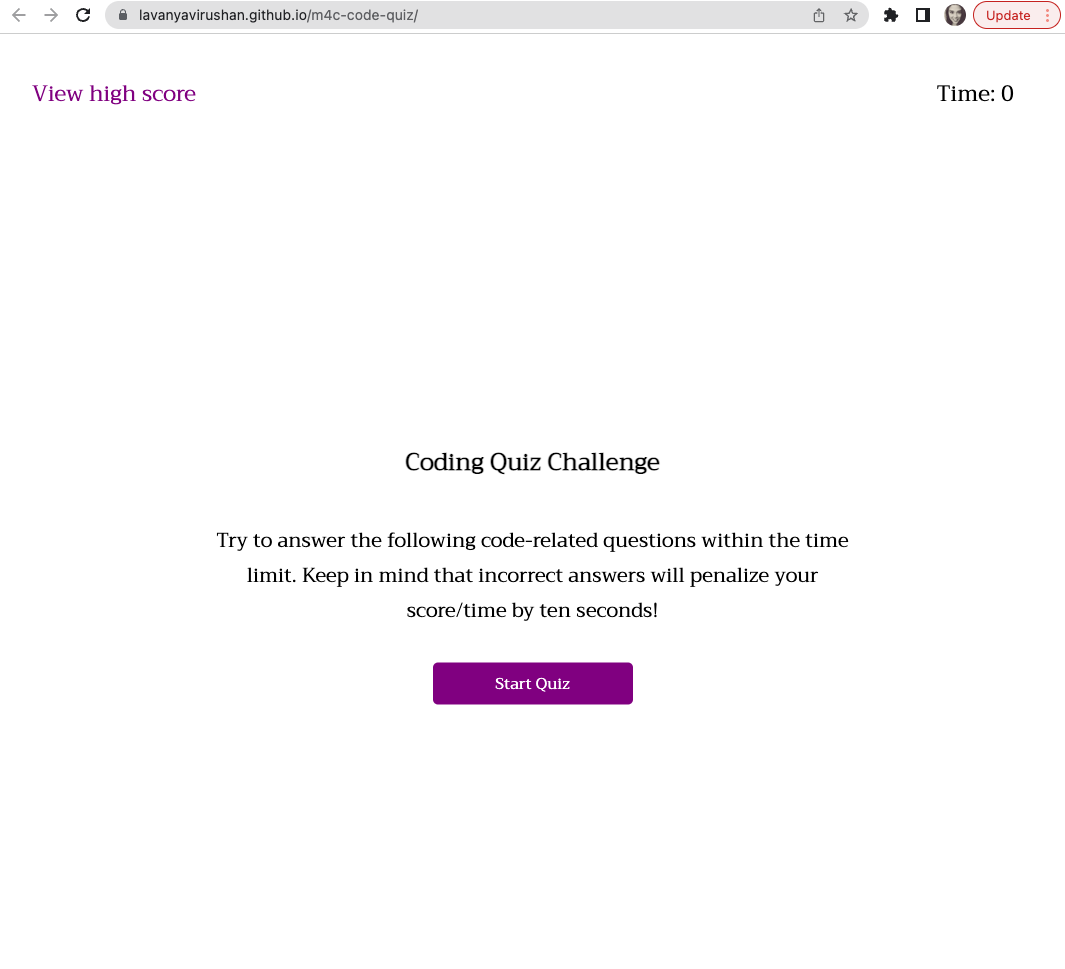
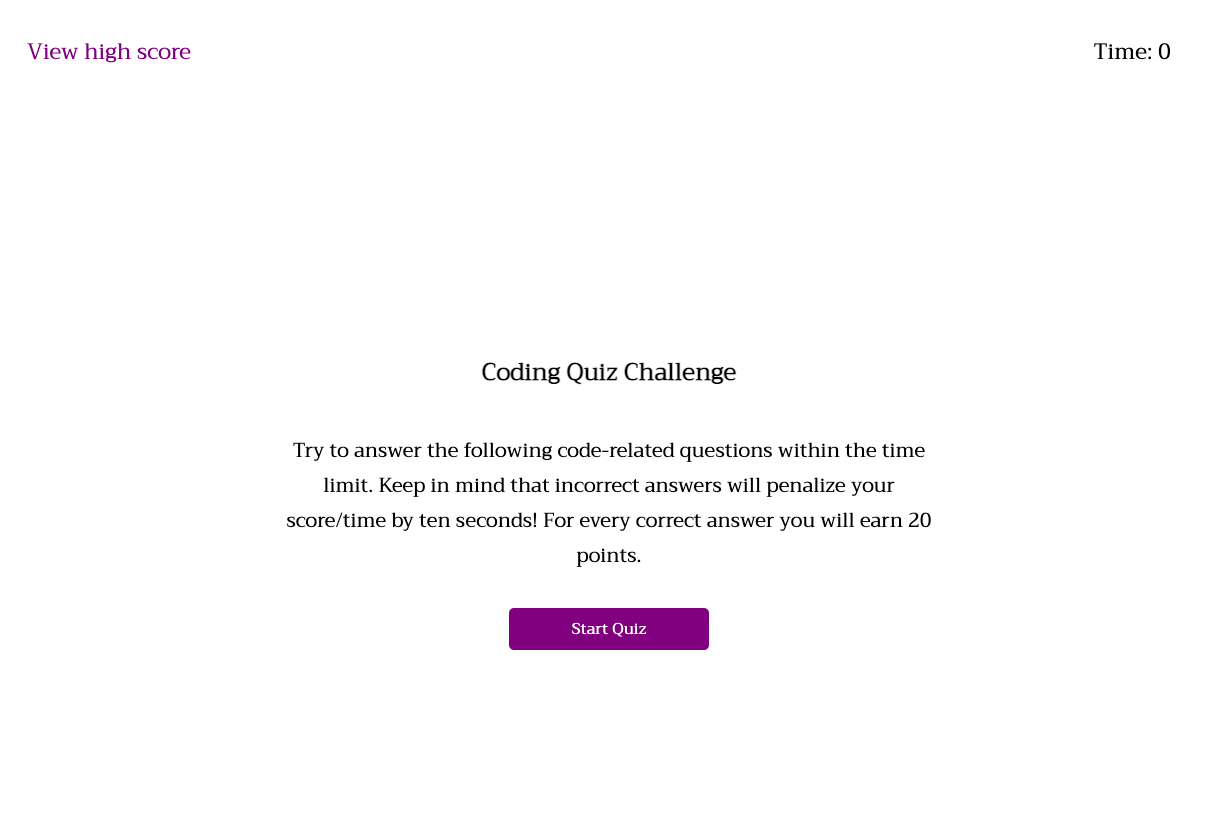
updated quiz instruction in HTML and corrected README image

diff --git a/index.html b/index.html
@@ -30,7 +30,8 @@
         <p class="instructions">
           Try to answer the following code-related questions within the time
           limit. Keep in mind that incorrect answers will penalize your
-          score/time by ten seconds!
+          score/time by ten seconds! For every correct answer you will earn 20
+          points.
         </p>
         <button class="button" id="start-btn">Start Quiz</button>
       </section>
